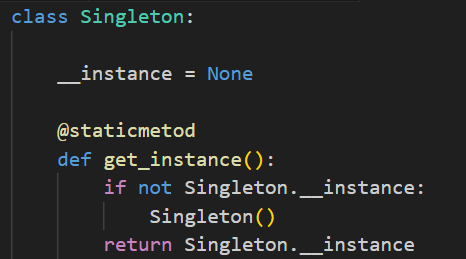
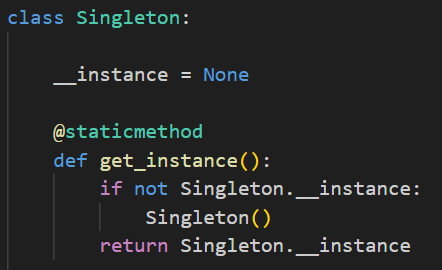
add factory method blog post

diff --git a/app/design-pattern-posts/factory-method-pattern/page.tsx b/app/design-pattern-posts/factory-method-pattern/page.tsx
@@ -1,0 +1,84 @@
+import { basePath } from '../../../next.config'
+import Image from 'next/image'
+
+export default function FactoryMethodPatternBlogPage() {
+  return (
+    <main className="flex min-h-screen flex-col items-center justify-between p-24">
+      <a
+          href={`${basePath}/design-pattern-posts`}
+      >
+        <div className="fixed left-0 top-0 flex w-full justify-center border-b border-gray-300 bg-gradient-to-b from-zinc-200 pb-6 pt-8 backdrop-blur-2xl dark:border-neutral-800 dark:bg-zinc-800/30 dark:from-inherit lg:static lg:w-auto  lg:rounded-xl lg:border lg:bg-gray-200 lg:p-4 lg:dark:bg-zinc-800/30">
+          Back
+        </div>
+      </a>
+      <div className='pt-2'>
+        <h1 className={`mb-3 text-4xl font-semibold text-center`}>Factory Method</h1>
+        <h1 className={`mb-3 text-xl font-light text-center`}>How to use the Factory Method Design Pattern</h1>
+      </div>
+
+      <div className="flex h-auto flex-col items-left justify-between p-24">
+        <p>
+          The Factory Method pattern is a creational design pattern, where an object&apos;s creation is separatated from it&apos;s use. Here, a superclass is used as a common interface to create objects, while subclasses are able to alter the specifics around the object which is created. In other words, any generalised code these objects can share will be in the superclass, while any specialised code needed for specific types of objects will be applied in the subclasses. In the Factory Method pattern, inputted data dictates how exactly an object is created. There are many applications in which this can be useful. For example, if we wanted to decide what particular object we want to create during runtime based on the input. It is also useful if you are working on a project where, in the future, you may need to expand on the types of objects your code will need to use; this can be cleanly and efficiently handled by a adding subclass which will overwrite the base factory method when creating objects of this new type. No existing code will need to be modified. It provides a solution to allow devs to easily extend existing components. This overcomes complex code where conditionals are utilised to determine implementation and the behaviour of the code - which may be difficult to read, maintain, and violates the single responsibility principle (whereby a class must have one clear responsibility).
+        </p>
+        <p className={`pt-2`}>
+          Let&apos;s visualise this with an example. Say we want to create a vehicle class that may create different vehicle objects, such as cars, bikes, and planes.
+        </p>
+        <p className={`pt-2`}>
+          The first thing we are going to want to do is to create a common interface (the Product). Here this will be our Vehicle class. Within this class, we are going to want to define some method that every vehicle object will need to implement (here I have decided on a &quot;travel&quot; method). We can pass this method as we are just mentioning this is a method we expect each vehicle to implement - we are not actually looking to implement it here.
+        </p>
+        <div className='pt-5 pd-3 flex justify-center items-center'>
+          <Image
+                src={`${basePath}/21.png`}
+                alt="Code for the Vehicle class"
+                width={229}
+                height={127}
+          />
+        </div>
+        <p className={`pt-2`}>
+          Next, we are going to create a Car class which is going to inherit and override the travel method. We can add a basic constructor - here I have put the number of wheels - and in the travel method we can print a simple phrase.
+        </p>
+        <div className='pt-5 pd-3 flex justify-center items-center'>
+          <Image
+                src={`${basePath}/22.png`}
+                alt="Code for basic Car class"
+                width={511}
+                height={223}
+          />
+        </div>
+        <p className={`pt-2`}>
+          In a similar way, we can define a couple more classes, such as a bike and a plane.
+        </p>
+        <div className='pt-5 pd-3 flex justify-center items-center'>
+          <Image
+                src={`${basePath}/23.png`}
+                alt="Code for basic Bike and Plane class"
+                width={586}
+                height={682}
+          />
+        </div>
+        <p className={`pt-2`}>
+          Now we actually want to create our factory class which will build our Vehicle objects. In our VehicleFactory, we are going to create a vehicle where we will pass through a vehicle type (for a simple example we will pass this in as a string). If the vehicle type is passed through as &quot;Car&quot;, we will return a new Car object, and so on for all the other Vehicle types we have defined. We can add an exception for any other type that comes through which we have not defined here.
+        </p>
+        <div className='pt-5 pd-3 flex justify-center items-center'>
+          <Image
+                src={`${basePath}/24.png`}
+                alt="Create factory class"
+                width={583}
+                height={309}
+          />
+        </div>
+        <p className={`pt-2`}>
+          And here is our Factory Method design pattern. We can then create instances of each object, and call the travel method on these to compare the outputs and ensure the suclasses have overwritten this travel method.
+        </p>
+        <div className='pt-5 pd-3 flex justify-center items-center'>
+          <Image
+                src={`${basePath}/25.png`}
+                alt="Creating specific Vehicle objects"
+                width={553}
+                height={175}
+          />
+        </div>
+      </div>
+    </main>
+  )
+}

diff --git a/app/design-pattern-posts/singleton-pattern/page.tsx b/app/design-pattern-posts/singleton-pattern/page.tsx
@@ -44,8 +44,8 @@ export default function SingletonPatternBlogPage() {
           <Image
                 src={`${basePath}/16.png`}
                 alt="Code for get_instance static method"
-                width={466}
-                height={259}
+                width={442}
+                height={270}
           />
         </div>
         <p className={`pt-2`}>
@@ -55,8 +55,8 @@ export default function SingletonPatternBlogPage() {
           <Image
                 src={`${basePath}/17.png`}
                 alt="Code for constructor"
-                width={457}
-                height={346}
+                width={451}
+                height={349}
           />
         </div>
         <p className={`pt-2`}>
@@ -66,8 +66,8 @@ export default function SingletonPatternBlogPage() {
           <Image
                 src={`${basePath}/18.png`}
                 alt="Returning exception in constructor if instance already exists"
-                width={646}
-                height={450}
+                width={655}
+                height={438}
           />
         </div>
         <p className={`pt-2`}>

diff --git a/app/design-pattern-posts/page.tsx b/app/design-pattern-posts/page.tsx
@@ -47,6 +47,23 @@ export default function DesignPatternBlogPage() {
           </p>
         </a>
       </div>
+
+      <div className="mb-32 grid text-center lg:max-w-5xl lg:w-full lg:mb-0 lg:grid-cols-4 lg:text-left">
+        <a
+          href={`${basePath}/design-pattern-posts/factory-method-pattern`}
+          className="group rounded-lg border border-transparent px-5 py-4 transition-colors hover:border-gray-300 hover:bg-gray-100 hover:dark:border-neutral-700 hover:dark:bg-neutral-800/30"
+        >
+          <h2 className={`mb-3 text-2xl font-semibold`}>
+            Factory Method{' '}
+            <span className="inline-block transition-transform group-hover:translate-x-1 motion-reduce:transform-none">
+              -&gt;
+            </span>
+          </h2>
+          <p className={`m-0 max-w-[30ch] text-sm opacity-50`}>
+            How to use the Factory Method design pattern.
+          </p>
+        </a>
+      </div>
     </main>
   )
 }
